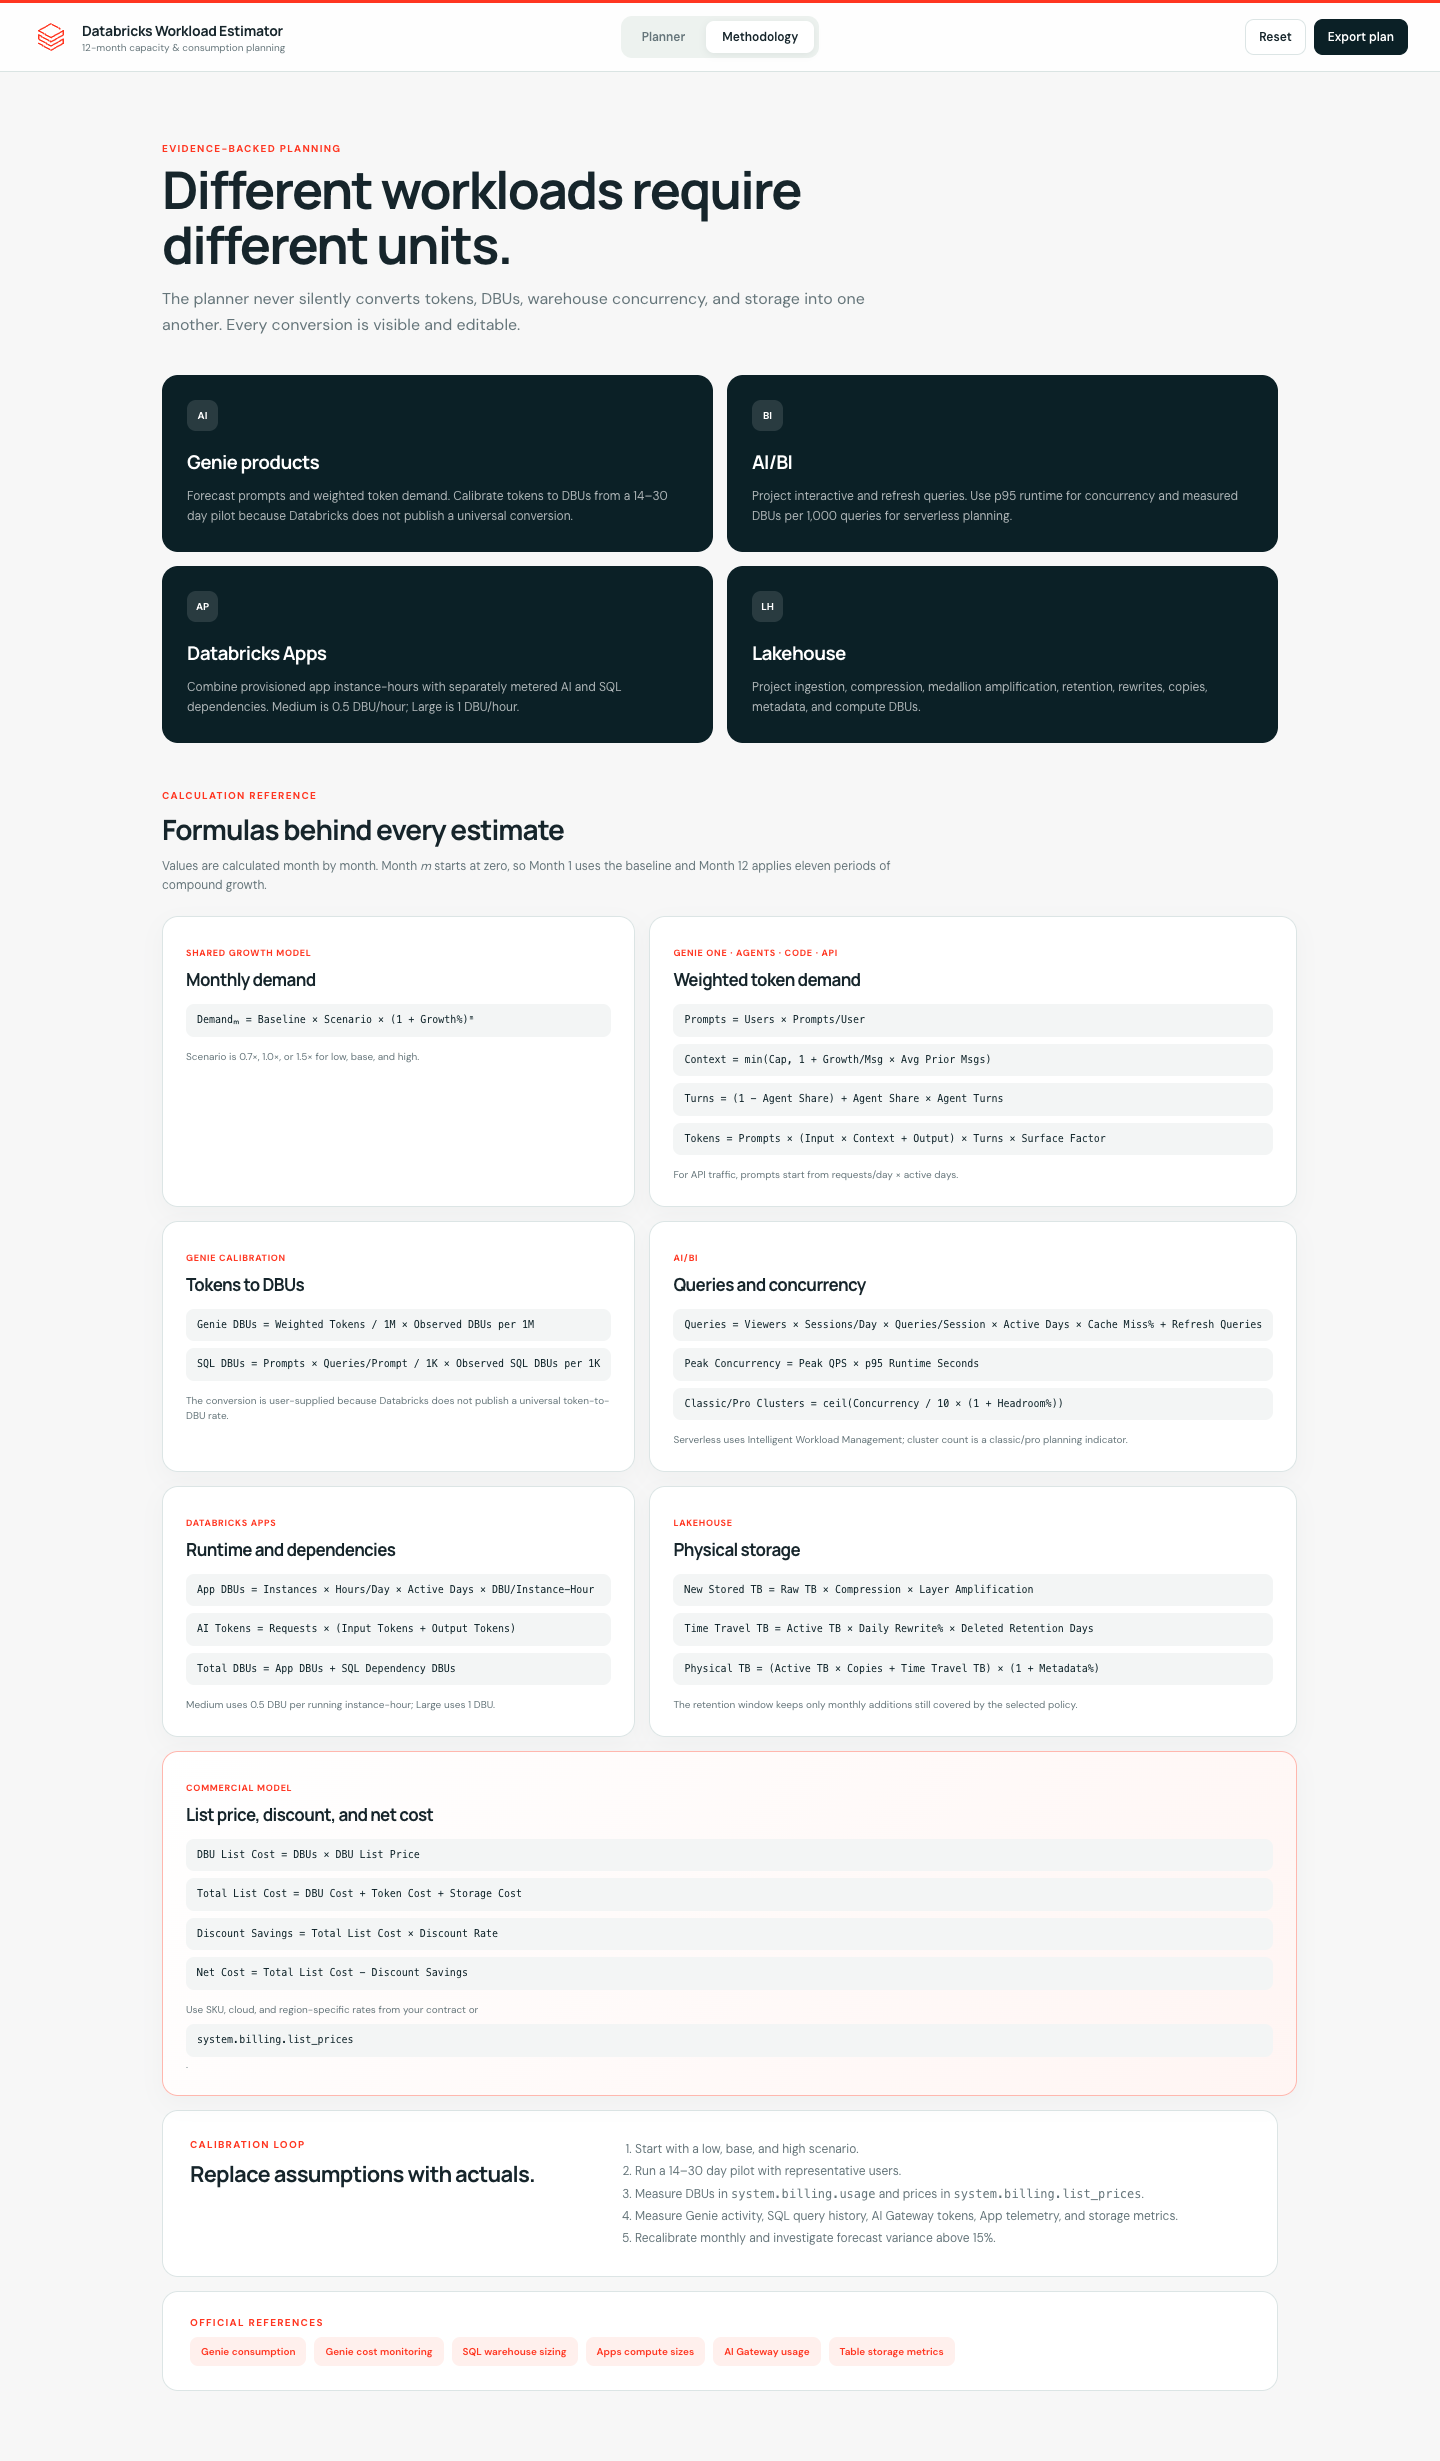
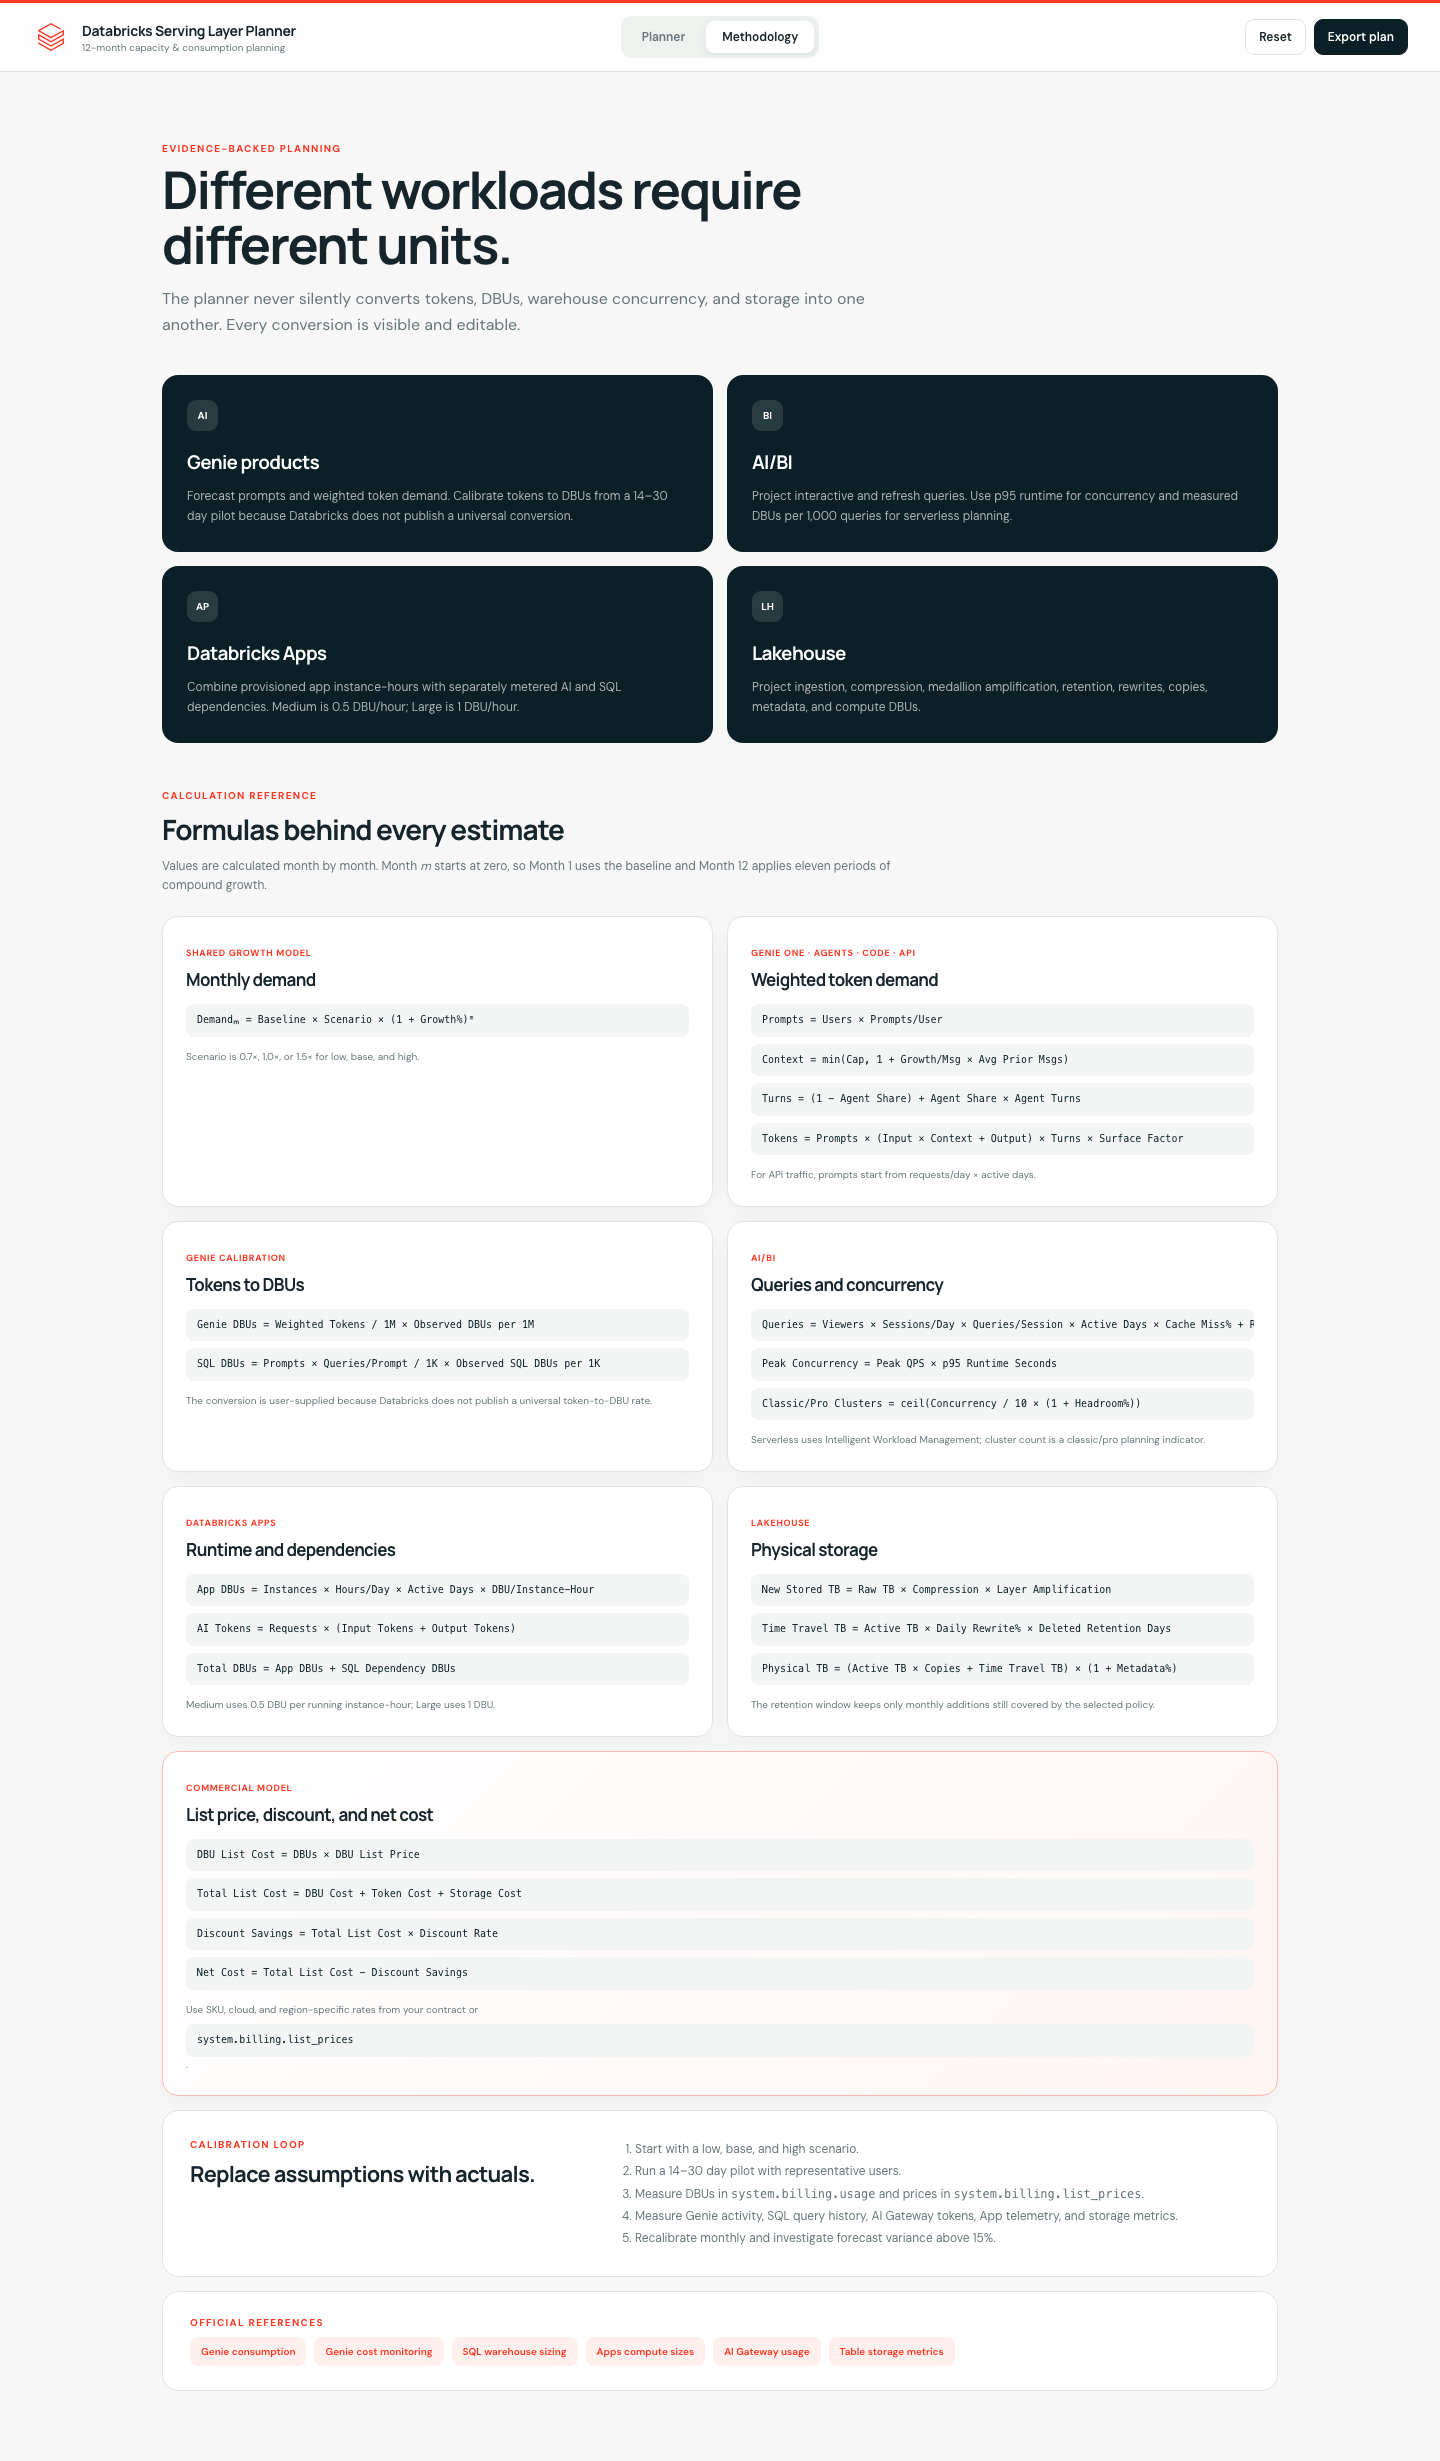
Rename as Databricks Serving Layer Planner

diff --git a/index.html b/index.html
@@ -3,8 +3,8 @@
   <head>
     <meta charset="UTF-8" />
     <meta name="viewport" content="width=device-width, initial-scale=1.0" />
-    <meta name="description" content="Twelve-month Databricks workload, AI, compute, and storage sizing planner." />
-    <title>Databricks Workload Estimator</title>
+    <meta name="description" content="Twelve-month planner for Databricks serving-layer AI, BI, Apps, compute, and storage consumption." />
+    <title>Databricks Serving Layer Planner</title>
     <link rel="icon" href="assets/databricks.svg" type="image/svg+xml" />
     <link rel="preconnect" href="https://fonts.googleapis.com" />
     <link rel="preconnect" href="https://fonts.gstatic.com" crossorigin />
@@ -17,7 +17,7 @@
         <span class="brand-mark">
           <img src="assets/databricks.svg" alt="" />
         </span>
-        <span><strong>Databricks Workload Estimator</strong><small>12-month capacity & consumption planning</small></span>
+        <span><strong>Databricks Serving Layer Planner</strong><small>12-month capacity & consumption planning</small></span>
       </a>
       <nav class="nav-tabs" aria-label="Primary navigation">
         <button class="nav-tab active" data-page="planner">Planner</button>
@@ -33,9 +33,9 @@
       <section class="page active" id="plannerPage">
         <div class="hero">
           <div>
-            <span class="eyebrow">Unified workload planning</span>
-            <h1>Forecast what your Databricks workloads will consume.</h1>
-            <p>Model AI demand, DBUs, compute concurrency, and physical storage independently—then project each workload across the next 12 months.</p>
+            <span class="eyebrow">Serving layer planning</span>
+            <h1>Forecast what your Databricks serving layer will consume.</h1>
+            <p>Model demand from Genie, AI/BI, Apps, and other data consumers—then project tokens, DBUs, concurrency, and storage across the next 12 months.</p>
           </div>
           <div class="scenario-control" role="radiogroup" aria-label="Forecast scenario">
             <span>Demand scenario</span>

diff --git a/app.js b/app.js
@@ -4,7 +4,7 @@
   const { WORKLOADS, forecast, formatNumber, formatCompact } = window.PortfolioModel;
   const $ = (selector) => document.querySelector(selector);
   const $$ = (selector) => [...document.querySelectorAll(selector)];
-  const storageKey = "databricks-workload-sizer-v2";
+  const storageKey = "databricks-serving-layer-planner-v1";
 
   const number = (key, label, unit = "", step = 1, help = "") => ({
     key, label, unit, step, help, type: "number",

diff --git a/README.md b/README.md
@@ -1,7 +1,7 @@
-# Databricks Workload Estimator
+# Databricks Serving Layer Planner
 
-A browser-based, 12-month scenario planner for Databricks AI, analytics, application,
-compute, and storage workloads.
+A browser-based, 12-month scenario planner for the consumption side of the Databricks
+lakehouse: Genie, AI/BI, Apps, serving compute, and the storage those experiences consume.
 
 > **Planning tool, not a quote.** This project is not an official Databricks pricing
 > calculator. Validate every forecast against your cloud, region, SKU, contract,
@@ -77,8 +77,8 @@ Requirements:
 - Node.js only when running the model tests
 
 ```bash
-git clone https://github.com/berrybluecode/databricks-workload-estimator.git
-cd databricks-workload-estimator
+git clone https://github.com/berrybluecode/databricks-serving-layer-planner.git
+cd databricks-serving-layer-planner
 python3 -m http.server 8770
 ```
 
